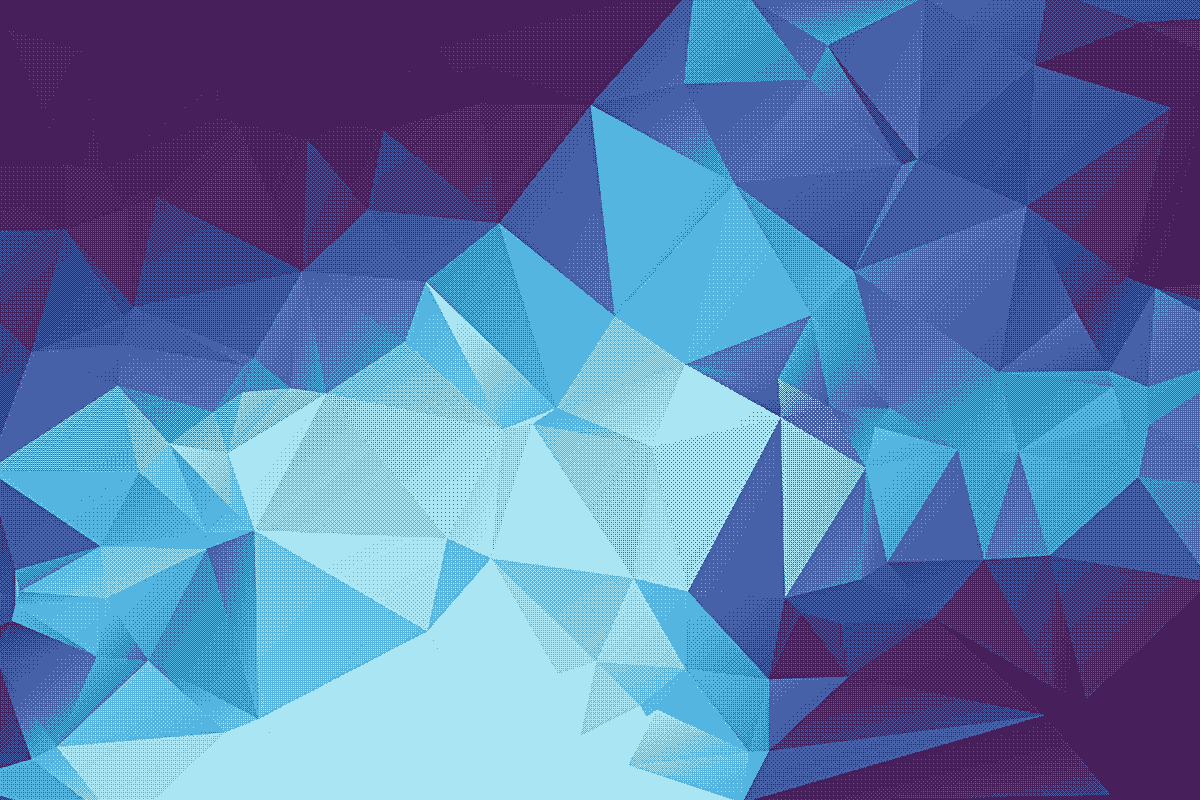
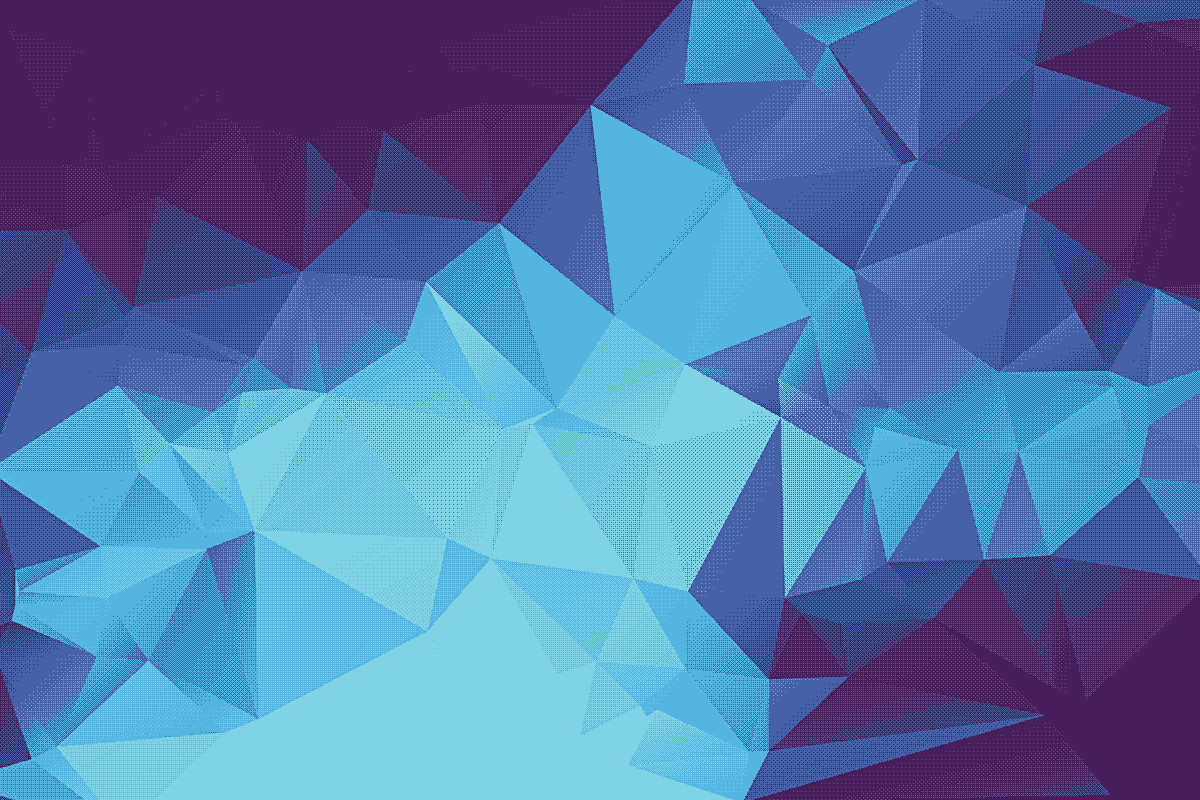
Update
added new background image
added to do list to read
refined text and structure

Changed region(s): [[0.0, 0.375, 0.7092, 1.0], [0.0308, 0.6875, 0.1542, 0.75]]

diff --git a/index.html b/index.html
@@ -26,12 +26,11 @@
 					<ul class="social">
 						<li class="left inline-block"><a href="linkedin.com/in/jenniferlynparsons">LinkedIn</a></li>
 						<li class="left inline-block"><a href="github.com/jenniferlynparsons">GitHub</a></li>
-						<li class="left inline-block"><a href="dribbble.com/jenniferlynparsons">Dribbble</a></li>
-						<li class="left inline-block"><a href="/files/JLPresume2015.pdf">Resume</a></li>
+						<li class="left inline-block"><a href="files/JLPresume2015.pdf">Resume</a></li>
 					</ul>
 					<div class="row">
 						<div class="col-12">
-							<p>I'm interested in the poetry in code and building tools that are useful, engaging, and leave the world a little bit better than I found it.</p>
+							<p>I'm interested in building tools that are useful, engaging, and leave the world a little bit better than I found it.</p>
 						</div>
 					</div>
 				</div>
@@ -93,31 +92,29 @@
 	<div class="container" id="built">
 		<div class="row">
 			<div class="col-12 pad-bot-20">
-				<h2 class="mar-bot-40">Built &amp; Building</h2>
 				<div class="row">
-					<div class="col-2">
+					<div class="col-12 col-desktop-6"><h2 class="mar-bot-40">Built &amp; Building</h2>
+						<p>While much of my work is tucked away under NDAs, I have a few special side projects that show my experience. All are in various stages of construction, from new ideas in the planning stages to fully launched and functional websites.</p>
+						<p>Older work is archived. Who cares about code I wrote 7 years ago?</p>
+					</div>
+				</div>
+				<div class="row">
+					<div class="col-12 col-desktop-2">
 						<h4>Websites:</h4>
 					</div>
-					<div class="col-10">
-						<a href="" class="button">Luna Station Quarterly</a>
+					<div class="col-12 col-desktop-10">
+						<a href="http://www.lunastationquarterly.com" class="button">Luna Station Quarterly</a>
 						<a href="" class="button">This Website</a>
 					</div>
 				</div>
-				<div class="row">
-					<div class="col-2">
+				<div class="row  pad-bot-20">
+					<div class="col-12 col-desktop-2">
 						<h4>Tools/Experiments:</h4>
 					</div>
-					<div class="col-10">
-						<a href="" class="button">Word Count Tool</a>
-						<a href="" class="button">Stockinette</a>
-					</div>
-				</div>
-				<div class="row  pad-bot-20">
-					<div class="col-2">
-						<h4>Apps:</h4>
-					</div>
-					<div class="col-10">
-						<a href="" class="button">Word Garden</a>
+					<div class="col-12 col-desktop-10">
+						<a href="https://github.com/jenniferlynparsons/stockinette" class="button">Stockinette</a>
+						<a href="https://github.com/jenniferlynparsons/writegarden" class="button">Write Garden</a>
+						<a href="https://github.com/jenniferlynparsons/daily-drabble" class="button">Daily Drabble</a>
 					</div>
 				</div>
 			</div>
@@ -126,64 +123,72 @@
 	<div class="main-wrap">
 		<div class="container">
 			<div class="row">
-				<div class="col-12">
+				<div id="work" class="col-12">
 					<h2 class="mar-bot-20">Work Experience</h2>
-					<h4>Front-End Developer | <span class="font-italic location">Sooryen Technologies, Inc.</span></h4>
-					<div class="row">
-						<div class="col-12 col-tablet-6">
-							<p>August 2014 - Present</p>
-							<p>At this ecommerce-focused agency, I use various front end and partner technologies to provide fast, clean, efficient end user experiences. </p>
-						</div>
-						<div class="col-12 col-tablet-6">
-							<ul>
-								<li>Acts as Tech Lead and point of contact in partnership with Bloomreach, serving top 100 ecommerce merchants, improving search and conversion.</li>
-								<li>Part of the team that sucessfully launched the 1800flowers.com and orientaltrading.com mobile sites, increasing conversion rates and improving customer satisfaction.</li>
-							</ul>
-						</div>
-					</div>
-					<hr>
-					<h3>Web Designer/Developer | <span class="font-italic location">Brimar Industries, Inc.</span></h3>
-					<div class="row">
-						<div class="col-12 col-tablet-6">
-							<p>December 2010 - August 2014</p>
-							<p>My main responsibility at Brimar was designing and building PHP-based user interfaces for the company’s various ecommerce sites and blogs.</p>
-						</div>
-						<div class="col-12 col-tablet-6">
-							<ul>
-								<li>Designed and coded new checkout, category and product templates for SafteySign.com and PipeMarker.com to increase conversion rates.</li>
-								<li>Restructured CSS files and improved cross-browser compatibility across all sites, including responsive design features and testing.</li>
-							</ul>
+					<div class="job">
+						<h3>Front-End Developer | <span class="font-italic location">Sooryen Technologies, Inc.</span></h3>
+						<p>August 2014 - Present</p>
+						<div class="row">
+							<div class="col-12 col-tablet-6">
+								<p>At this ecommerce-focused agency, I use various front end and partner technologies to provide fast, clean, efficient end user experiences. </p>
+							</div>
+							<div class="col-12 col-tablet-6">
+								<ul>
+									<li>Acts as Tech Lead and point of contact in partnership with Bloomreach, serving top 100 ecommerce merchants, improving search and conversion.</li>
+									<li>Part of the team that sucessfully launched the 1800flowers.com and orientaltrading.com mobile sites, increasing conversion rates and improving customer satisfaction.</li>
+								</ul>
+							</div>
 						</div>
 					</div>
 					<hr>
-					<h3>Web Production Assistant | <span class="font-italic location">rayogram</span></h3>
-					<div class="row">
-						<div class="col-12 col-tablet-6">
-							<p>June 2010 - December 2010</p>
-							<p>At this boutique web agency I assisted in all aspects of site development, from templates creation to photo preparation.</p>
-						</div>
-						<div class="col-12 col-tablet-6">
-							<ul>
-								<li>Created Drupal templates, installed and configured modules</li>
-								<li>Updated CSS files </li>
-								<li>Modified PHP templates</li>
-							</ul>
+					<div class="job">
+						<h3>Web Designer/Developer | <span class="font-italic location">Brimar Industries, Inc.</span></h3>
+						<p>December 2010 - August 2014</p>
+						<div class="row">
+							<div class="col-12 col-tablet-6">
+								<p>My main responsibility at Brimar was designing and building PHP-based user interfaces for the company’s various ecommerce sites and blogs.</p>
+							</div>
+							<div class="col-12 col-tablet-6">
+								<ul>
+									<li>Designed and coded new checkout, category and product templates for SafteySign.com and PipeMarker.com to increase conversion rates.</li>
+									<li>Restructured CSS files and improved cross-browser compatibility across all sites, including responsive design features and testing.</li>
+								</ul>
+							</div>
 						</div>
 					</div>
 					<hr>
-					<h3>Freelance</h3>
-					<div class="row">
-						<div class="col-12 col-tablet-6">
-							<p>March 2000 - August 2014</p>
-							<p>I created CMS-based as well as bespoke websites for several clients.</p>
+					<div class="job">
+						<h3>Web Production Assistant | <span class="font-italic location">rayogram</span></h3>
+						<p>June 2010 - December 2010</p>
+						<div class="row">
+							<div class="col-12 col-tablet-6">
+								<p>At this boutique web agency I assisted in all aspects of site development, from templates creation to photo preparation.</p>
+							</div>
+							<div class="col-12 col-tablet-6">
+								<ul>
+									<li>Created Drupal templates, installed and configured modules</li>
+									<li>Updated CSS files </li>
+									<li>Modified PHP templates</li>
+								</ul>
+							</div>
 						</div>
-						<div class="col-12 col-tablet-6">
-							<ul>
-								<li>Designed and planned the wireframing for the UI</li>
-								<li>Created sites with Wordpress, including custom content types and theming</li>
-								<li>Created sites with Drupal, including theming and module configuration</li>
-								<li>Hand-coded HTML and CSS, and created jQuery plugin implementations</li>
-							</ul>
+					</div>
+					<hr>
+					<div class="job">
+						<h3>Freelance</h3>
+						<p>March 2000 - August 2014</p>
+						<div class="row">
+							<div class="col-12 col-tablet-6">
+								<p>I created CMS-based as well as bespoke websites for several clients.</p>
+							</div>
+							<div class="col-12 col-tablet-6">
+								<ul>
+									<li>Designed and planned the wireframing for the UI</li>
+									<li>Created sites with Wordpress, including custom content types and theming</li>
+									<li>Created sites with Drupal, including theming and module configuration</li>
+									<li>Hand-coded HTML and CSS, and created jQuery plugin implementations</li>
+								</ul>
+							</div>
 						</div>
 					</div>
 				</div>
@@ -197,6 +202,7 @@
 				<div class="row">
 					<div class="col-12 col-tablet-6 pad-bot-20">
 						<p>I am a web developer/designer from the NYC Metro area with over 14 years of experience in web development and design.</p>
+						<p>My goal is to create things (apps, websites, physical notebooks if that's how they swing) that help people organize their lives better and then get out of the way to make room for creativity, personal development, and happiness.</p>
 						<p>When not designing or coding things, I run a small press (<a href="http://www.lunastationpress.com" target="_blank">Luna Station Press</a>), write speculative fiction, and play with wool.</p>
 					</div>
 					<div class="col-12 col-tablet-6 pad-bot-20">

diff --git a/css/style.css b/css/style.css
@@ -1193,6 +1193,9 @@ body .button {
   -moz-transition: all 0.3s;
   transition: all 0.3s;
 }
+body .button:hover {
+  color: #585858;
+}
 body #intro {
   color: #ffffff;
 }
@@ -1229,6 +1232,9 @@ body #built h4 {
   body #intro {
     height: 400px;
     padding: 50px 0;
+  }
+  body #work ul {
+    margin-top: 0;
   }
 }
 .no-margin {

diff --git a/less/_mobile-styles.less b/less/_mobile-styles.less
@@ -75,6 +75,10 @@ body{
 		transition: all 0.3s;
 	}
 
+	.button:hover{
+		color: @base-font-color;
+	}
+
 	#intro{
 		color:@base-background-color;
 	}

diff --git a/less/_desktop-styles.less b/less/_desktop-styles.less
@@ -7,4 +7,10 @@ body{
 		height: 400px;
 		padding:50px 0;
 	}
+
+	#work{
+		ul{
+			margin-top:0;
+		}
+	}
 }
